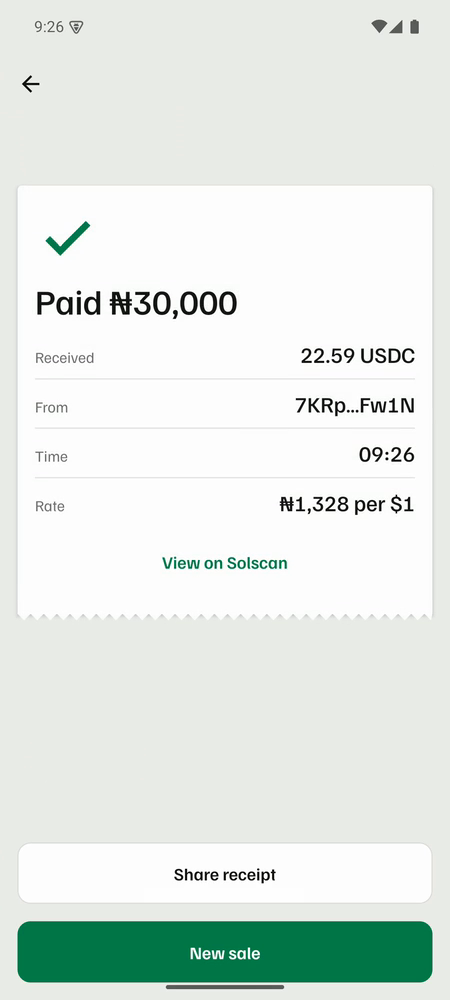
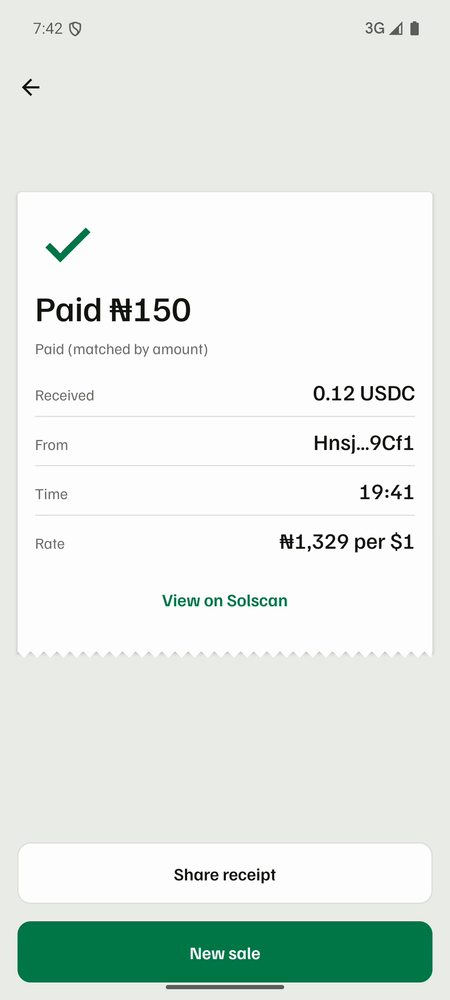
Deck pictures now come from the real mainnet sale (till, QR, Paid receipt, Today, the customer's Phantom, the Solscan page); real payment recorded as done twice

diff --git a/README.md b/README.md
@@ -140,7 +140,7 @@ All money logic lives in `app/core/` and has no screen code in it, which is why 
 | **Reading real mainnet payments** | Real. The app's code read a real USDC transfer on mainnet as PAID, and as UNDERPAID when one cent more was expected. |
 | **Version 1 transactions** | Fixed on 2026-10-04 after the mainnet check above failed on one. Before that, a payment sent as a version 1 transaction would have stayed on Waiting. After the fix, the app's code read a real version 1 mainnet transaction: 0.19999 USDC received. |
 | **Seeker phone check** | Real on mainnet against the Solana Mobile docs' example owner. |
-| A real wallet paying a Kobo QR on mainnet | Done once, 2026-10-05, Phantom on two Android emulators with Google Play: ₦150 → 0.12 USDC landed in the shop wallet and Kobo showed Paid in about five seconds ([transaction](https://solscan.io/tx/3qhKdCcqSpTGqyasmMx1orDYKziGHw6DhQudS6pde39TEHfZadVVY8ciiQ8tS1bL2s6e6qqSRwawgTs2ndTGFbwa)). With a caveat: when the link reached Phantom through Android's open-link path, Phantom pre-filled a send of 0.12 **SOL** and dropped the USDC coin; the payer picked USDC by hand and retyped 0.12, and the one-time reference was not in the transaction, so Kobo matched the sale by amount (its fallback) rather than by reference. Phantom's own in-app scanner, Solflare and the Seeker wallet are not yet tested. |
+| A real wallet paying a Kobo QR on mainnet | Done twice, 2026-10-05, Phantom on two Android emulators with Google Play: ₦150 → 0.12 USDC landed in the shop wallet each time and Kobo showed Paid within seconds ([first](https://solscan.io/tx/3qhKdCcqSpTGqyasmMx1orDYKziGHw6DhQudS6pde39TEHfZadVVY8ciiQ8tS1bL2s6e6qqSRwawgTs2ndTGFbwa), [second](https://solscan.io/tx/4rFCgZJoLApdchHC1rCFD9d9ypLXH9Dpyjy3LMZaHaVdjpRewa8uKETrzcBrzxu5RK5TrZsbnUX1p2VM2WWFRdBx), recorded for the demo)). With a caveat: when the link reached Phantom through Android's open-link path, Phantom pre-filled a send of 0.12 **SOL** and dropped the USDC coin; the payer picked USDC by hand and retyped 0.12, and the one-time reference was not in the transaction, so Kobo matched the sale by amount (its fallback) rather than by reference. The second payment went the same way. Phantom's own in-app scanner, Solflare and the Seeker wallet are not yet tested. |
 | Refund and Seeker rewards signed by a real wallet | Not done. The refund maths and the double-refund check ran on the local network; signing with a real wallet needs the real-phone test. |
 | SKR swap for rewards (Jupiter) | Built, not run. Jupiter only works on mainnet. |
 | Tap to pay (NFC) | Not built. |
